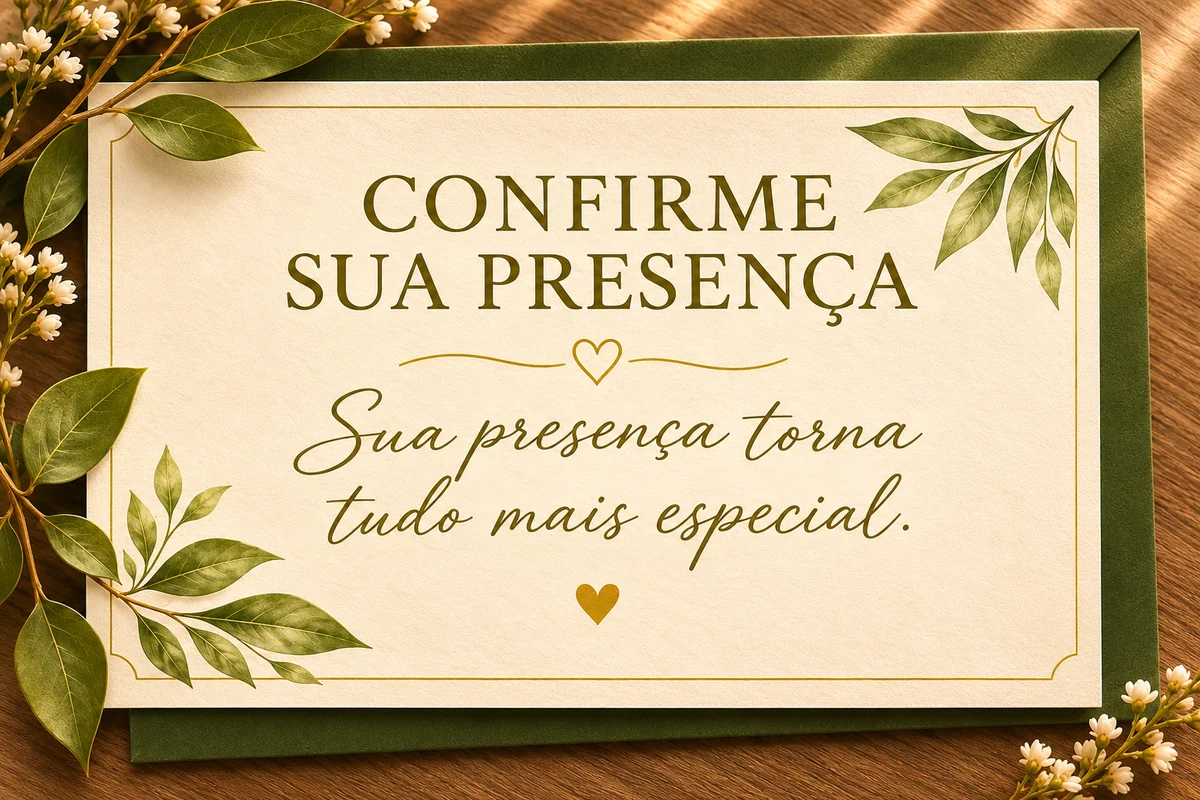
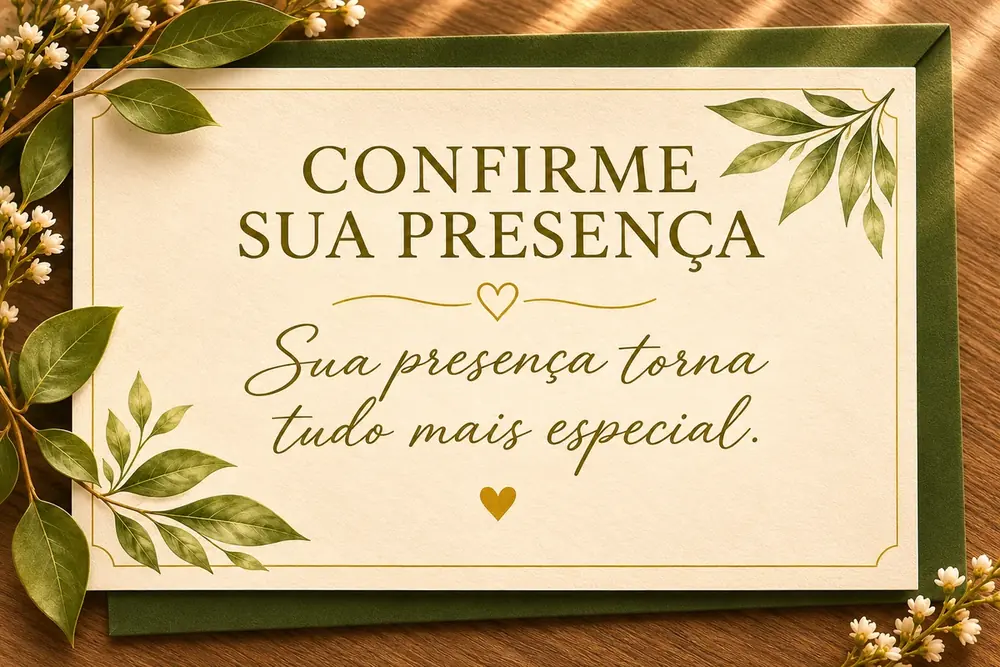
Carregamento no celular: abertura de 1,4MB para 0,6MB e toques maiores
- imagens reduzidas ao tamanho útil e recomprimidas (3,6MB -> 1,7MB)
- textura do envelope e lacre pré-carregados: textura chega no início, não aos 1,2s
- aquarela só baixa perto da tela; sai a biblioteca de QR Code do Pix antigo
- Firebase Auth só no painel (convite deixa de abrir iframe do Google)
- menu, setinha da capa e filtros com área de toque de 44px

Changed region(s): [[0.558, 0.6297, 0.589, 0.6597], [0.496, 0.5397, 0.527, 0.5697]]

diff --git a/index.html b/index.html
@@ -32,7 +32,13 @@
 <link rel="preconnect" href="https://fonts.googleapis.com">
 <link rel="preconnect" href="https://fonts.gstatic.com" crossorigin>
 <link rel="stylesheet" href="https://fonts.googleapis.com/css2?family=Playfair+Display:wght@400;500;600&family=Lato:wght@300;400;700&family=Allura&display=swap">
-<link rel="stylesheet" href="css/style.css?v=202611251627">
+<link rel="stylesheet" href="css/style.css?v=202611251634">
+<!-- o envelope é a primeira coisa na tela: a textura (fundo do CSS) só seria
+     descoberta depois do CSS; pedida aqui, chega junto com o envelope -->
+<link rel="preload" as="image" href="img/identidade/fibra-aba.webp" fetchpriority="high">
+<link rel="preload" as="image" href="img/lacre-me-bronze.webp" fetchpriority="high">
+<link rel="preconnect" href="https://www.gstatic.com" crossorigin>
+<link rel="preconnect" href="https://firestore.googleapis.com" crossorigin>
 <!-- Mostra o envelope a cada carregamento, antes da primeira pintura da capa. -->
 <script>
 (function () {
@@ -129,7 +135,7 @@
   <div class="container">
     <div class="aquarela__grade">
       <figure class="rv">
-        <img src="img/identidade/aquarela-raizes.webp?v=202611251627" width="1652" height="952"
+        <img src="img/identidade/aquarela-raizes.webp?v=202611251634" width="1280" height="738" loading="lazy" decoding="async"
              alt="Aquarela de Mozar e Eduarda com as cachorras, em frente à capela.">
       </figure>
       <div class="aquarela__dizeres">
@@ -340,7 +346,7 @@
 <section class="final">
   <div class="container">
     <p class="script final__frase" id="frase-final"></p>
-    <img src="img/identidade/cachorras.webp?v=202611251627" alt="Ilustração das nossas cachorras." loading="lazy">
+    <img src="img/identidade/cachorras.webp?v=202611251634" alt="Ilustração das nossas cachorras." loading="lazy">
   </div>
 </section>
 
@@ -417,7 +423,6 @@
 
 <div class="toast" id="toast" role="status" aria-live="polite"></div>
 
-<script src="https://cdnjs.cloudflare.com/ajax/libs/qrcodejs/1.0.0/qrcode.min.js"></script>
-<script type="module" src="js/main.js?v=202611251627"></script>
+<script type="module" src="js/main.js?v=202611251634"></script>
 </body>
 </html>

diff --git a/js/db.js b/js/db.js
@@ -7,7 +7,7 @@
    Nome, mensagem e valor de quem presenteou ficam em `registros`, que apenas
    o admin autenticado consegue ler.
    ============================================================= */
-import { FIREBASE, CASAMENTO } from './config.js?v=202611251627';
+import { FIREBASE, CASAMENTO } from './config.js?v=202611251634';
 
 const V = '10.12.5';
 const U = 'https://www.gstatic.com/firebasejs/' + V;
@@ -26,16 +26,22 @@ const avisar = () => { const p = LS.get('presentes', {}); ouvintes.forEach(f => 
 const uid = () => Date.now().toString(36) + Math.random().toString(36).slice(2, 7);
 
 /* --------------------------------------------------------------- firebase */
-export async function init() {
+/** comLogin: só o painel precisa do Firebase Auth — no convite ele baixaria
+    o módulo e ainda abriria um iframe do Google à toa. */
+export async function init(comLogin = false) {
   if (MODO === 'local') return 'local';
-  if (fb) return 'firebase';
-  const [appMod, fs, au] = await Promise.all([
-    import(U + '/firebase-app.js'),
-    import(U + '/firebase-firestore.js'),
-    import(U + '/firebase-auth.js'),
-  ]);
-  const app = appMod.initializeApp(FIREBASE);
-  fb = { app, db: fs.getFirestore(app), auth: au.getAuth(app), fs, au };
+  if (!fb) {
+    const [appMod, fs] = await Promise.all([
+      import(U + '/firebase-app.js'),
+      import(U + '/firebase-firestore.js'),
+    ]);
+    const app = appMod.initializeApp(FIREBASE);
+    fb = { app, db: fs.getFirestore(app), fs };
+  }
+  if (comLogin && !fb.au) {
+    fb.au = await import(U + '/firebase-auth.js');
+    fb.auth = fb.au.getAuth(fb.app);
+  }
   return 'firebase';
 }
 

diff --git a/css/style.css b/css/style.css
@@ -198,6 +198,9 @@ button { font: inherit; color: inherit; }
   transition: color .3s, border-color .3s;
 }
 .nav a:hover { color: var(--dourado); }
+/* área de toque de ~44px sem mudar o desenho do menu (o texto tem só 16px) */
+.nav a { position: relative; }
+.nav a::before { content: ''; position: absolute; inset: -14px -6px; }
 .nav.on a { color: var(--tinta-suave); }
 .nav.on a:hover, .nav.on a.ativo { color: var(--madeira); border-color: var(--dourado); }
 
@@ -282,6 +285,7 @@ button { font: inherit; color: inherit; }
   translate: -50% 0;
   color: rgba(212, 175, 124, .8); text-decoration: none;
 }
+.hero__scroll::before { content: ''; position: absolute; inset: -12px -14px; }   /* toque de 44px */
 .hero__scroll svg { width: 20px; height: 20px; animation: descer 2.6s ease-in-out infinite; }
 @keyframes descer { 0%, 100% { transform: translateY(0); opacity: .7; } 50% { transform: translateY(7px); opacity: 1; } }
 
@@ -577,7 +581,7 @@ html.com-envelope:not(.aberto) .hero__conteudo > * { animation-play-state: pause
 }
 .filtros::-webkit-scrollbar { display: none; }
 .filtro {
-  flex: none; background: none; border: 0; cursor: pointer;
+  flex: none; background: none; border: 0; cursor: pointer; min-height: 2.75rem;
   padding: .5rem clamp(.7rem, 2.6vw, 1.1rem);
   font: 400 clamp(.58rem, 2.5vw, .65rem)/1.6 var(--sans);
   letter-spacing: .18em; text-transform: uppercase; white-space: nowrap;

diff --git a/js/admin.js b/js/admin.js
@@ -1,8 +1,8 @@
 /* =============================================================
    Painel dos noivos — RSVPs, presentes e status da lista.
    ============================================================= */
-import { PRESENTES } from './data.js?v=202611251627';
-import * as DB from './db.js?v=202611251627';
+import { PRESENTES } from './data.js?v=202611251634';
+import * as DB from './db.js?v=202611251634';
 
 const $  = (s, r = document) => r.querySelector(s);
 const $$ = (s, r = document) => Array.from(r.querySelectorAll(s));
@@ -22,7 +22,7 @@ const estado = { registros: [], rsvps: [], status: {} };
 
 /* ------------------------------------------------------------------ login */
 async function login() {
-  await DB.init();
+  await DB.init(true);
   const local = DB.MODO === 'local';
   $('#aviso-local').hidden = !local;
   $('#campo-email').hidden = local;

diff --git a/admin.html b/admin.html
@@ -10,7 +10,7 @@
 <link rel="preconnect" href="https://fonts.googleapis.com">
 <link rel="preconnect" href="https://fonts.gstatic.com" crossorigin>
 <link rel="stylesheet" href="https://fonts.googleapis.com/css2?family=Playfair+Display:wght@400;500&family=Lato:wght@300;400;700&family=Allura&display=swap">
-<link rel="stylesheet" href="css/style.css?v=202611251627">
+<link rel="stylesheet" href="css/style.css?v=202611251634">
 <style>
   body { background: var(--marfim); }
   .topo {
@@ -161,6 +161,6 @@
 
 <div class="toast" id="toast" role="status" aria-live="polite"></div>
 
-<script type="module" src="js/admin.js?v=202611251627"></script>
+<script type="module" src="js/admin.js?v=202611251634"></script>
 </body>
 </html>

diff --git a/js/main.js b/js/main.js
@@ -1,9 +1,9 @@
 /* =============================================================
    MOZAR & EDUARDA — comportamento do site
    ============================================================= */
-import { CASAMENTO } from './config.js?v=202611251627';
-import { PRESENTES, CATEGORIAS } from './data.js?v=202611251627';
-import * as DB from './db.js?v=202611251627';
+import { CASAMENTO } from './config.js?v=202611251634';
+import { PRESENTES, CATEGORIAS } from './data.js?v=202611251634';
+import * as DB from './db.js?v=202611251634';
 
 const $  = (s, r = document) => r.querySelector(s);
 const $$ = (s, r = document) => Array.from(r.querySelectorAll(s));
